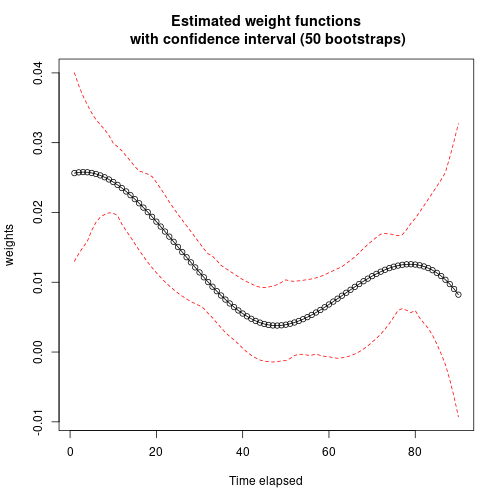
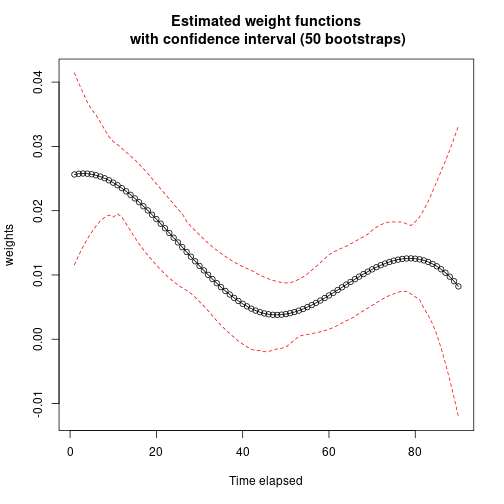
added the updated doc in R and description CRAN

diff --git a/R/cran-comments.md b/R/cran-comments.md
@@ -8,9 +8,11 @@ This is a new submission.
   tarball, on an account with no Python configured (empty home directory,
   `RETICULATE_PYTHON` unset), as on a CRAN check machine. This machine
   reports one more NOTE, only because HTML Tidy is not installed on it.
-* TODO before submitting: add the win-builder (R-devel, R-release) and macOS
-  builder results here, and the GitHub Actions result for the submitted
-  commit. Remove this line.
+* macOS builder, R-release (4.6.1, arm64): Status OK.
+* win-builder, R-release (4.6.1, Windows Server 2022): 1 NOTE, the
+  incoming-feasibility NOTE below.
+* win-builder, R-devel (2026-10-18 r90707, Windows Server 2022): 1 NOTE, the
+  incoming-feasibility NOTE below.
 
 ## R CMD check results
 
